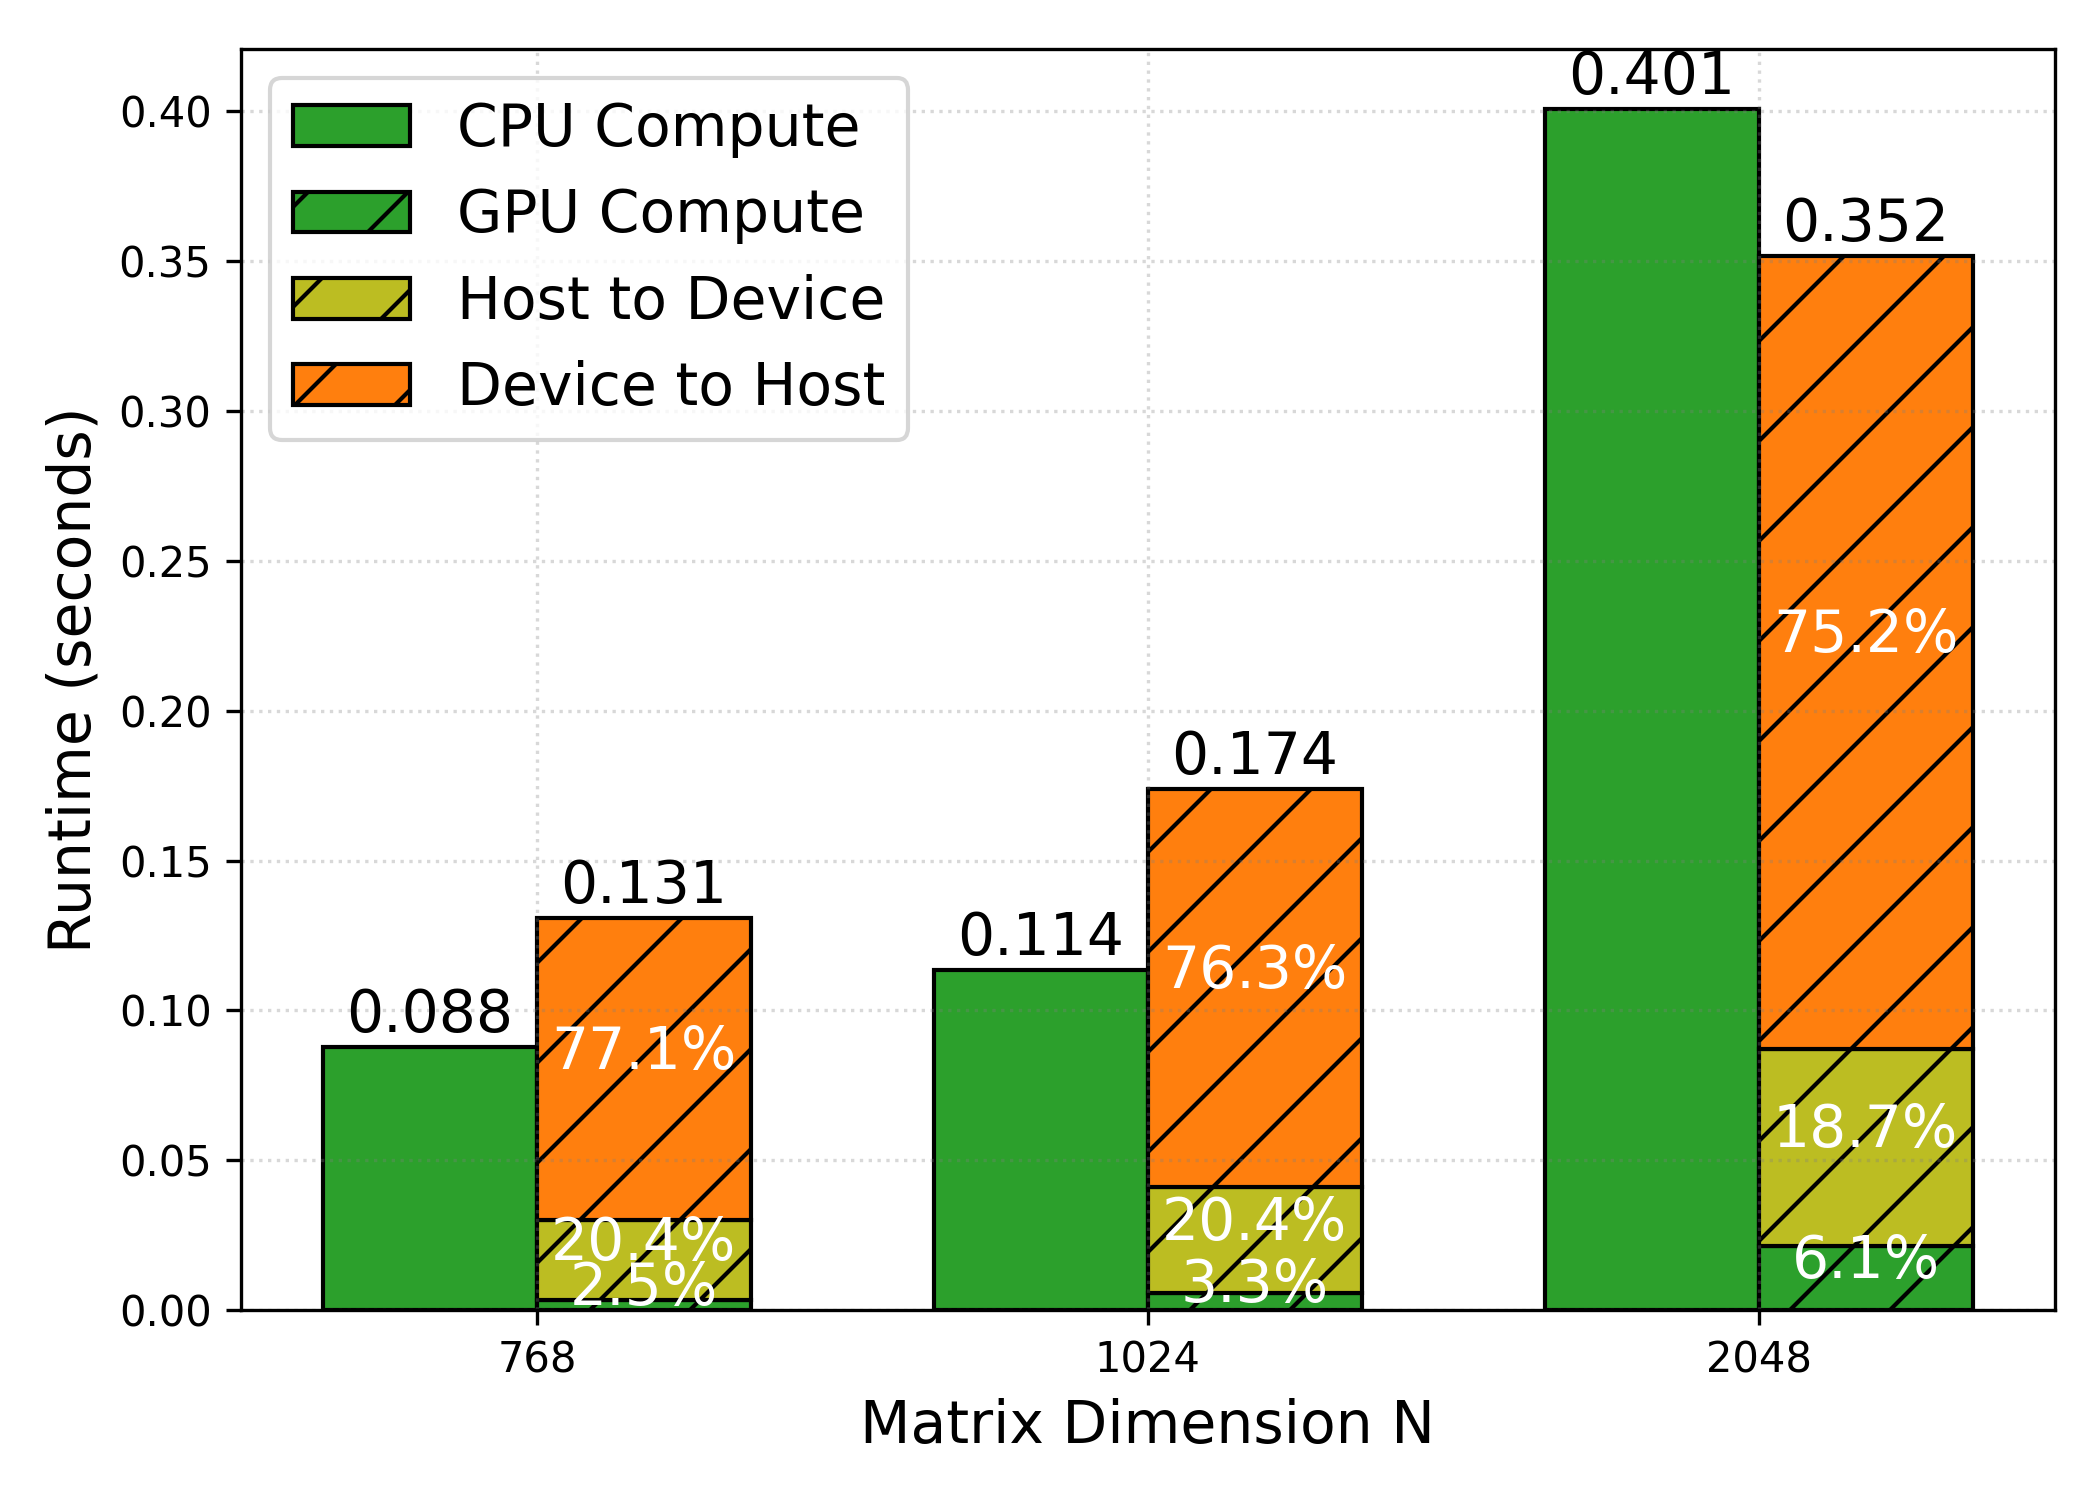
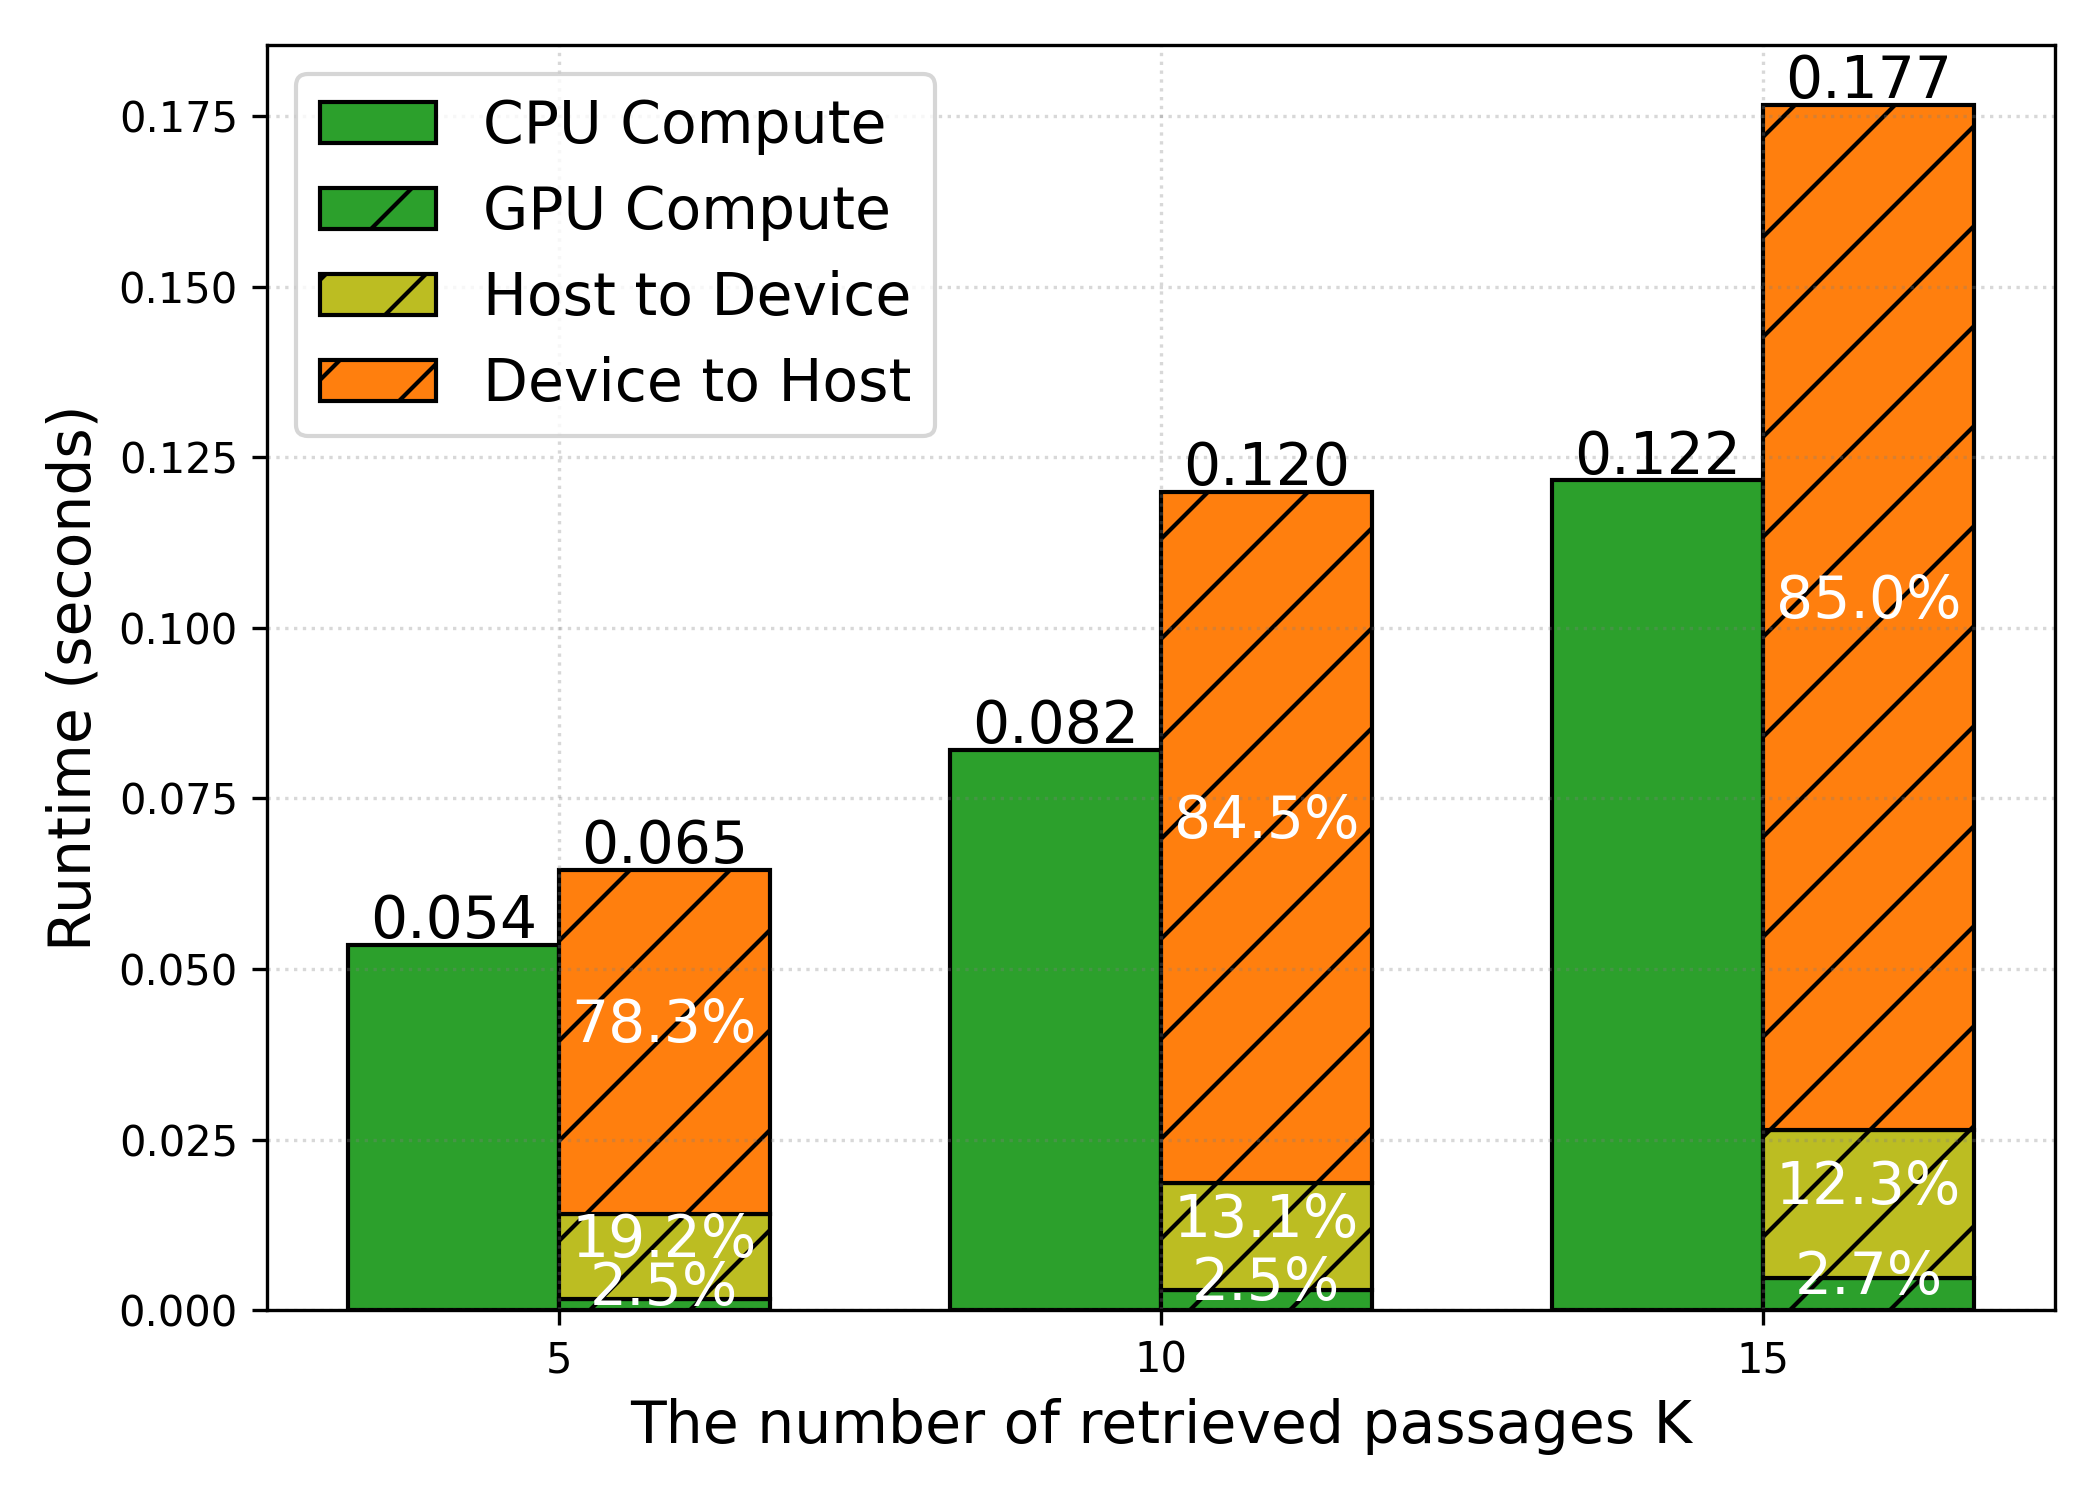
update

diff --git a/experiment/test_llo_limitation.py b/experiment/test_llo_limitation.py
@@ -6,6 +6,7 @@ import torch  # PyTorch for tensor operations
 
 # ----- Configuration and Data Collection -----
 Ns = [768, 1024, 2048]
+Ks = [5, 10, 15]
 benchmark_results = []
 
 # Constants for robust timing
@@ -16,9 +17,10 @@ N_MEASUREMENTS = 100  # Times to measure and average
 start_event = torch.cuda.Event(enable_timing=True)
 end_event = torch.cuda.Event(enable_timing=True)
 
-for N in Ns:
+for K in Ks:
+    N = 768
     # ----- Data Setup -----
-    A_cpu = torch.rand(16 * 10, 200, N, dtype=torch.float32)
+    A_cpu = torch.rand(16 * K, 200, N, dtype=torch.float32)
     B_cpu = torch.rand(N, N, dtype=torch.float32)
 
     # Pre-transfer B to GPU once (static matrix)
@@ -35,7 +37,7 @@ for N in Ns:
     cpu_time = np.mean(cpu_times)
 
     # ----- 2. GPU Warm-up Phase (Excluding Cold Start Influence) -----
-    print(f"Warming up for N={N}...")
+    print(f"Warming up for K={K}...")
     for _ in range(WARMUP_RUNS):
         A_gpu_dummy = A_cpu.to("cuda")  # H2D transfer
         C_gpu_dummy = torch.matmul(A_gpu_dummy, B_gpu)  # Compute
@@ -105,7 +107,7 @@ legend_handles = []
 legend_labels = []
 
 # ----- Plotting Loop for each N size -----
-for i, N in enumerate(Ns):
+for i, K in enumerate(Ks):
     cpu_t, h2d_t, gpu_c, d2h_t, gpu_t = benchmark_results[i]
     current_x_gpu = x_gpu[i]
 
@@ -126,7 +128,7 @@ for i, N in enumerate(Ns):
         plt.bar(x_cpu[i], cpu_t, width=width, color="tab:green", edgecolor="black")
 
     # Add text label for CPU time
-    plt.text(x_cpu[i], cpu_t + 0.005, f"{cpu_t:.3f}", ha="center", fontsize=14)
+    plt.text(x_cpu[i], cpu_t + 0.001, f"{cpu_t:.3f}", ha="center", fontsize=14)
 
     # --- 2. GPU Stacked Bar ---
     gpu_values = [
@@ -167,14 +169,14 @@ for i, N in enumerate(Ns):
         )
 
     # Add text label for GPU total time
-    plt.text(current_x_gpu, gpu_t + 0.005, f"{gpu_t:.3f}", ha="center", fontsize=14)
+    plt.text(current_x_gpu, gpu_t + 0.001, f"{gpu_t:.3f}", ha="center", fontsize=14)
 
 # ----- X-axis labels -----
-plt.xticks(x_indices, [str(N) for N in Ns])
+plt.xticks(x_indices, [str(K) for K in Ks])
 
 # ----- Labels and title -----
 plt.ylabel("Runtime (seconds)", fontsize=14)
-plt.xlabel("Matrix Dimension N", fontsize=14)
+plt.xlabel("The number of retrieved passages K", fontsize=14)
 
 # ----- Legend outside the plot to the right -----
 plt.legend(legend_handles, legend_labels, fontsize=14, loc="upper left")

diff --git a/test/test_rag_model.py b/test/test_rag_model.py
@@ -4,7 +4,6 @@ import pstats
 import random
 import time
 import unittest
-from test.test_base import TestConfigLoggerBase
 
 import numpy as np
 import torch.utils.data.dataloader
@@ -34,6 +33,7 @@ from securerag.models import (
 )
 from securerag.profiler import Profiler as iprofiler
 from securerag.utils import add_metric, get_metric, show_metric
+from test.test_base import TestConfigLoggerBase
 
 NONDEBUG = True
 ENABLE_PROFILER = False
@@ -650,7 +650,7 @@ class TestSecureRAG(TestModelBase):
                     add_metric("time", timeused)
                     print(f"k is {k}, eta is {eta}, d is {ratio}")
                     print(
-                        f'ex: {get_metric("ex")}, f1: {get_metric("f1")}, time: {get_metric("time")}'
+                        f"ex: {get_metric('ex')}, f1: {get_metric('f1')}, time: {get_metric('time')}"
                     )
 
     def test_generate(self):
@@ -1001,7 +1001,7 @@ class TestLinearLayerOffloadingLimitation(TestConfigLoggerBase):
                 plt.text(
                     current_x_gpu,
                     bottom + val / 2,
-                    f"{val/gpu_t*100:.1f}%",
+                    f"{val / gpu_t * 100:.1f}%",
                     ha="center",
                     fontsize=12,
                     color="white",
